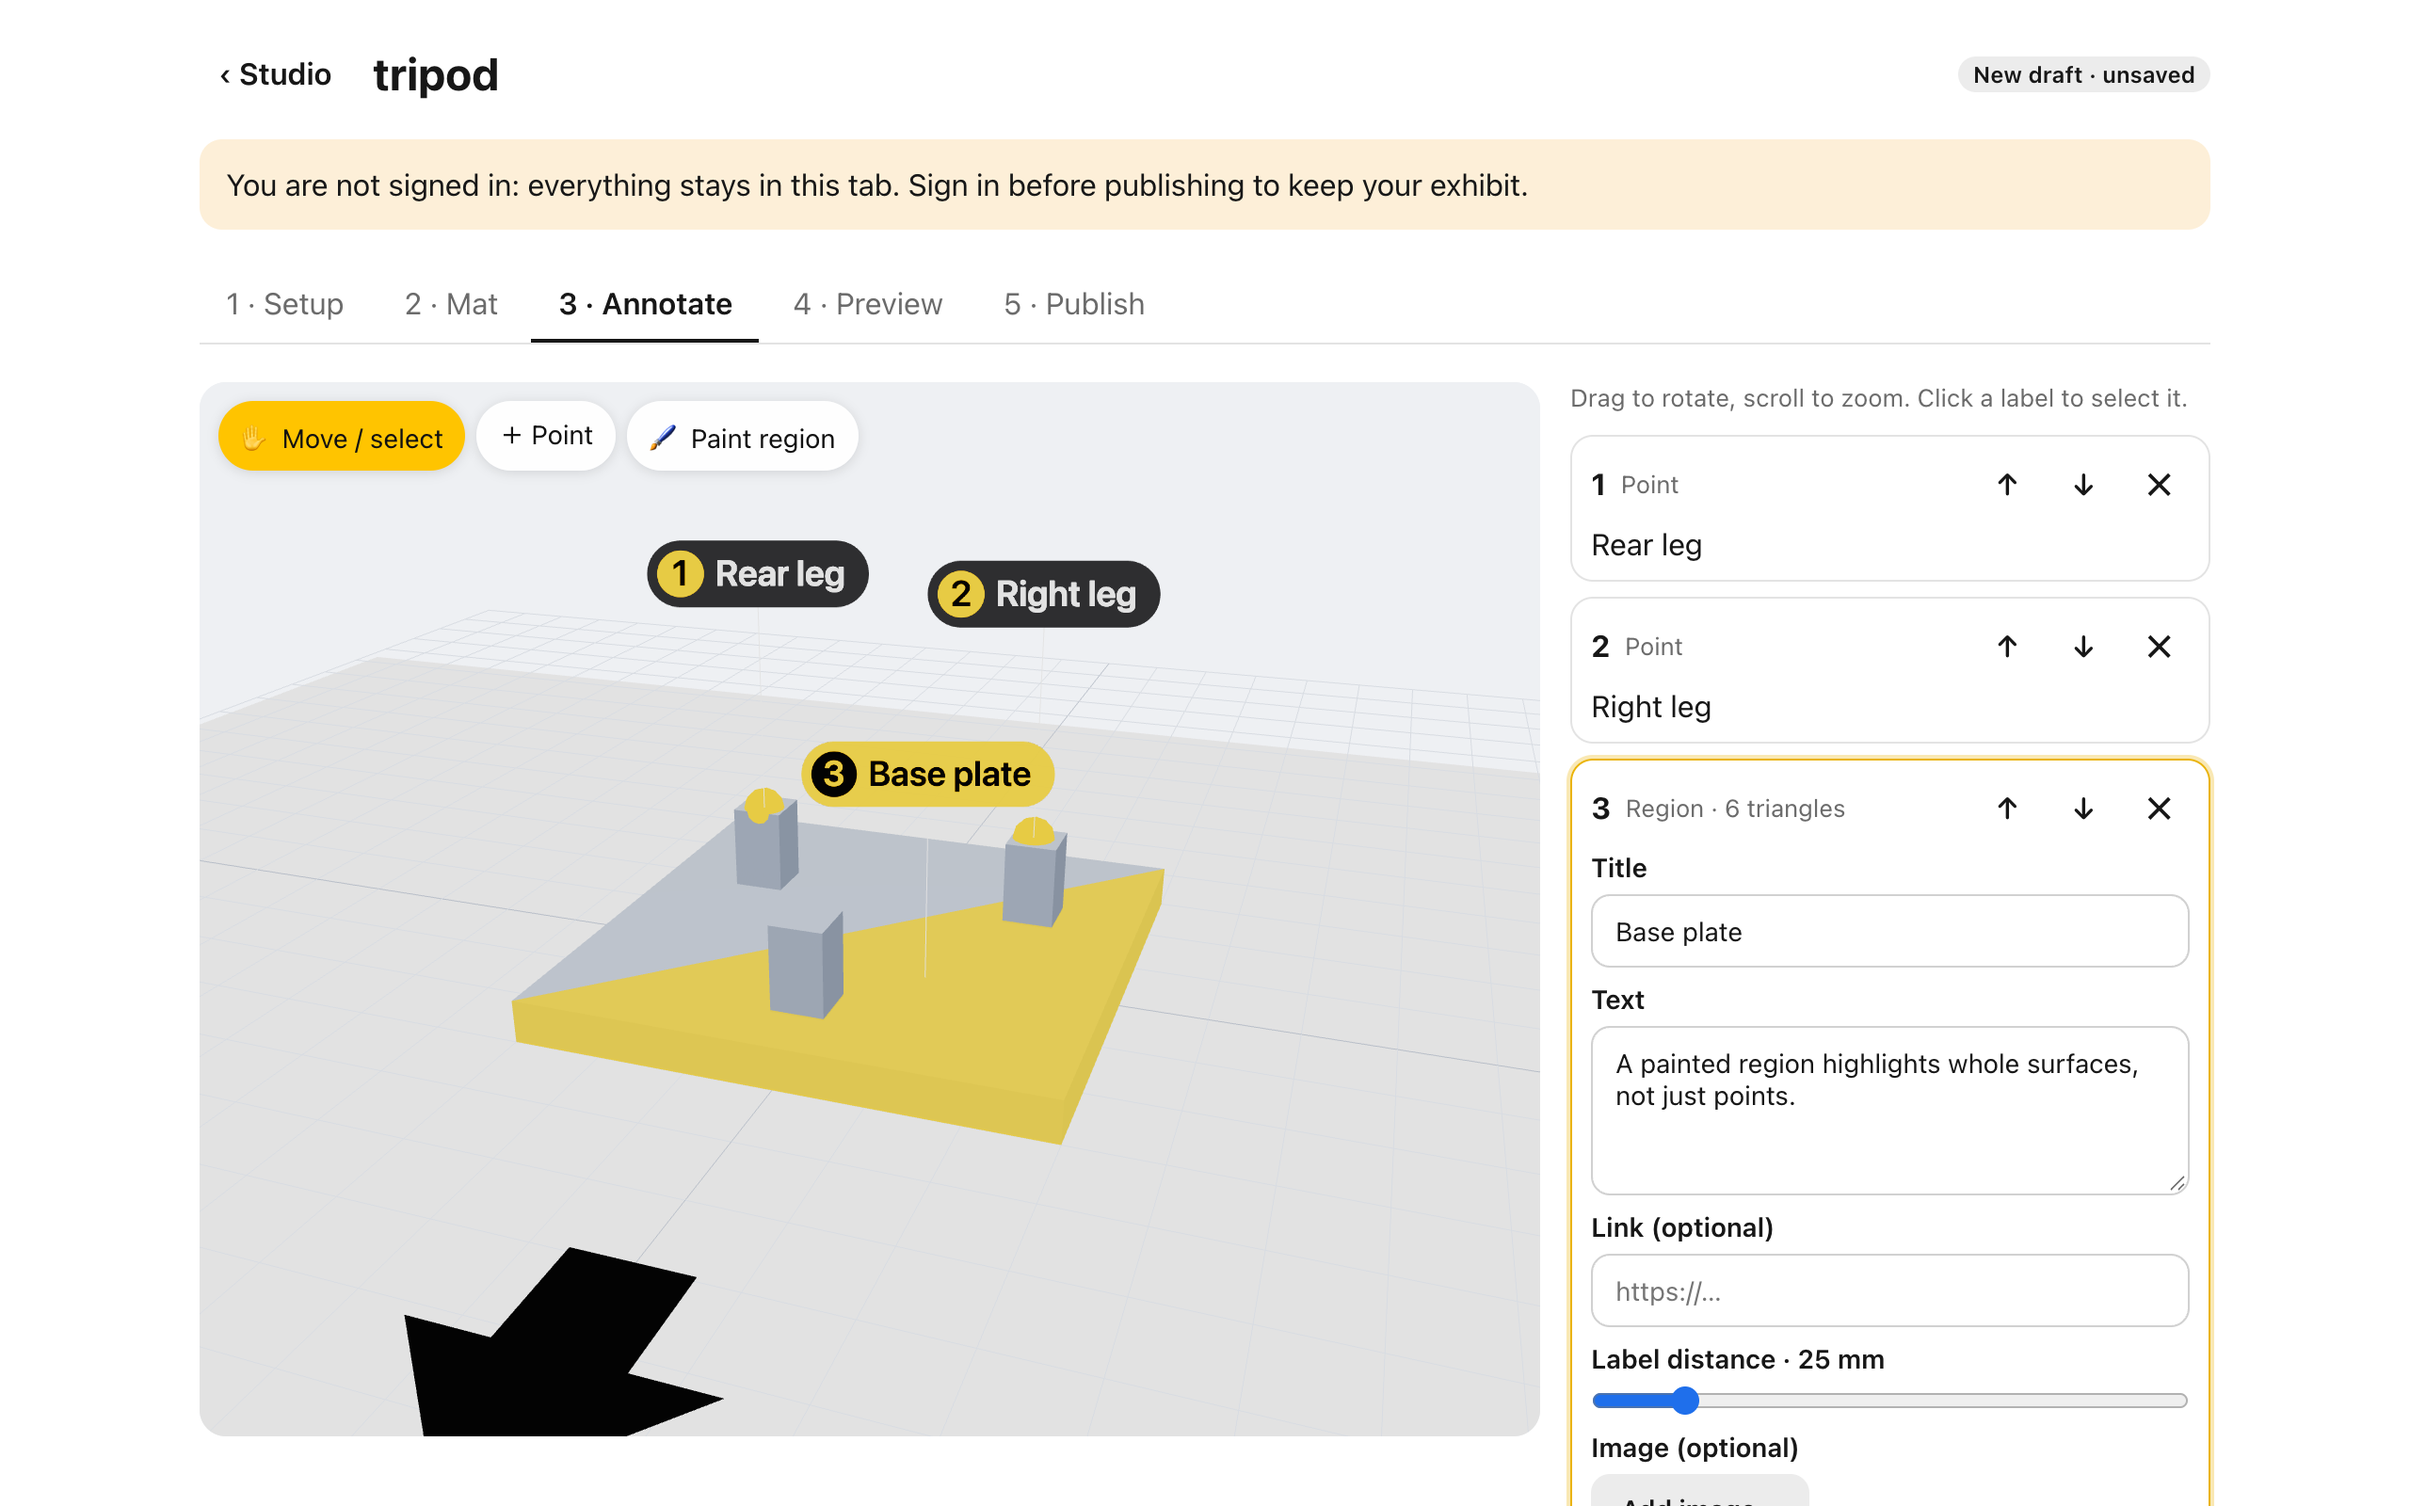
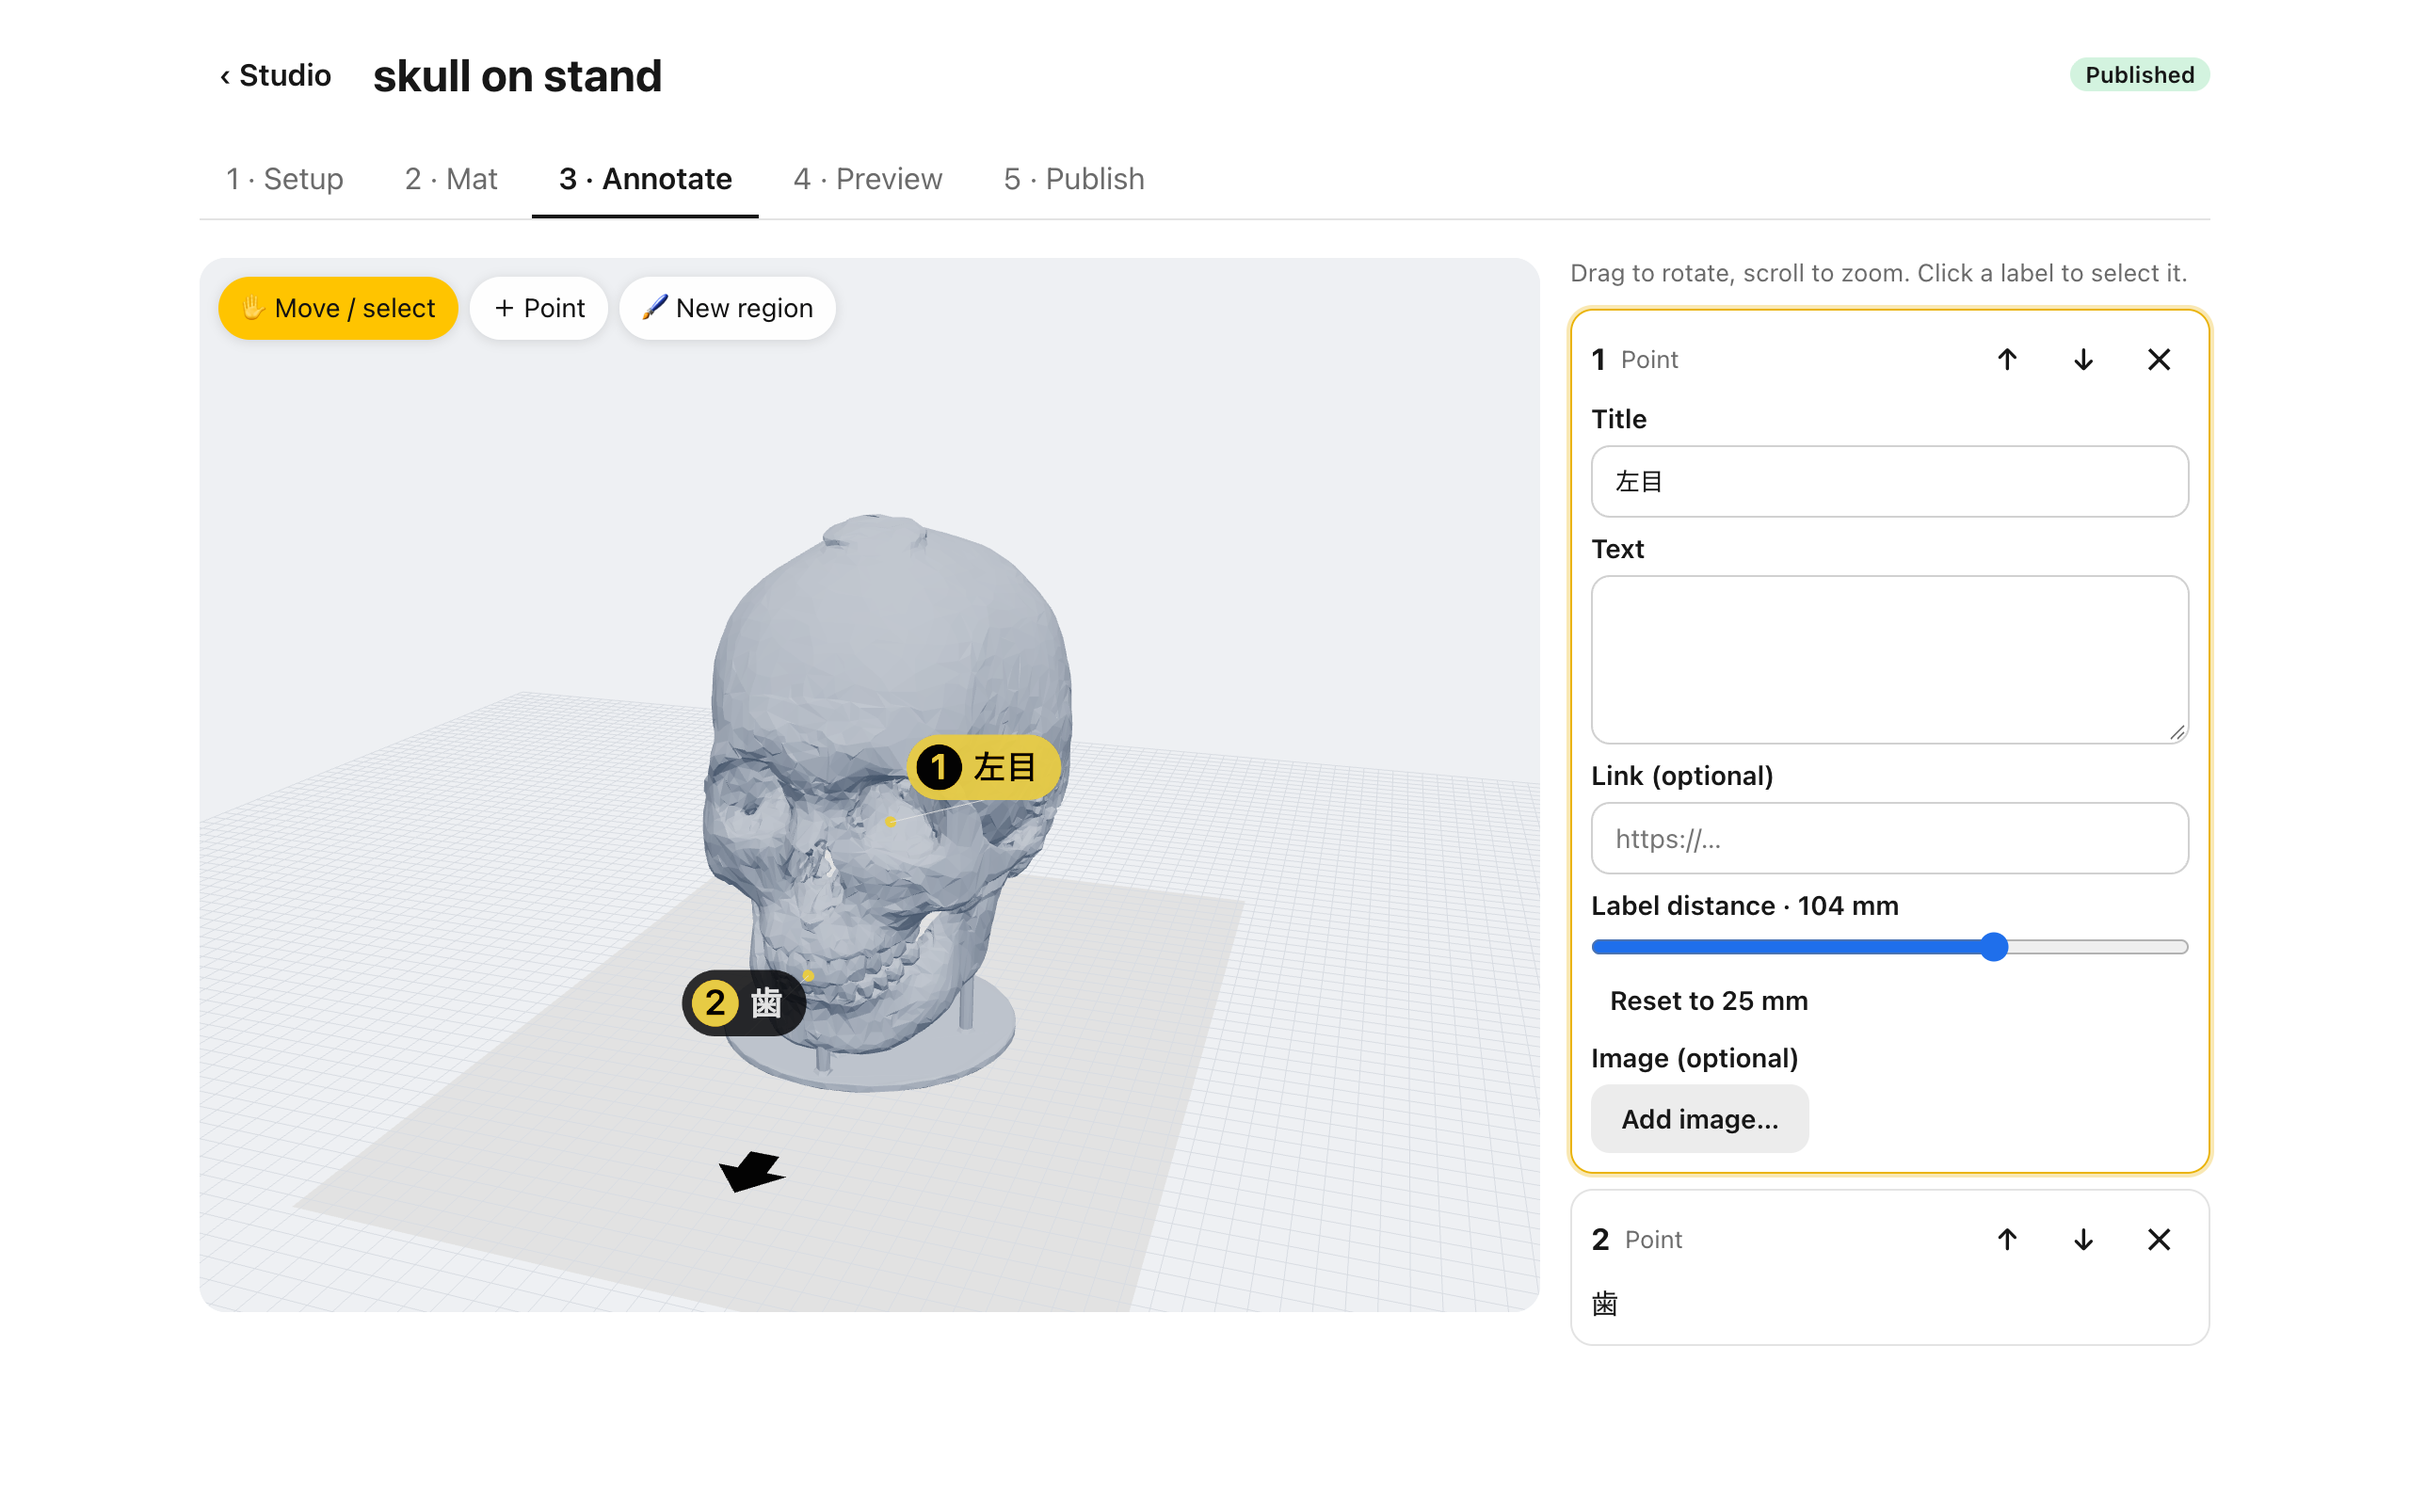
docs(readme): screenshots from the "skull on stand" exhibit
Replace the tripod/mock-cube screenshots with the same exhibit as the AR photos:
its Studio Mat tab (full A3 mat), its Annotate tab (左目 selected) and the phone 3D view
with the 左目 detail sheet. Alt text and caption updated to match.

diff --git a/README.md b/README.md
@@ -22,13 +22,13 @@ _In AR: a 3D-printed skull on its printed mat, seen through a phone. The labels 
 eye", 2 歯 "teeth") stay on the real object as the phone moves._
 
 <p>
-  <a href="docs/images/studio-mat.png"><img src="docs/images/studio-mat.png" alt="Mat tab with the generated A4 mat" height="190"></a>
-  <a href="docs/images/studio-annotate.png"><img src="docs/images/studio-annotate.png" alt="Annotate tab with two points and a painted region" height="190"></a>
-  <a href="docs/images/viewer-phone.png"><img src="docs/images/viewer-phone.png" alt="Viewer on a phone with a label's detail sheet" height="190"></a>
+  <a href="docs/images/studio-mat.png"><img src="docs/images/studio-mat.png" alt="Mat tab of the skull exhibit: the generated A3 mat with the stand's outline, markers and QR code" height="190"></a>
+  <a href="docs/images/studio-annotate.png"><img src="docs/images/studio-annotate.png" alt="Annotate tab of the skull exhibit: points 1 左目 and 2 歯 on the simplified model" height="190"></a>
+  <a href="docs/images/viewer-phone.png"><img src="docs/images/viewer-phone.png" alt="The skull exhibit on a phone: 3D view with the 左目 label's detail sheet open" height="190"></a>
 </p>
 
-_Left to right: the printable placement mat, annotations in the Studio, and the visitor's view
-on a phone (3D fallback with a label's details)._
+_The same skull exhibit, left to right: its printable placement mat, its annotations in the
+Studio, and the visitor's view on a phone without AR (3D view with a label's details)._
 
 ## Features
 
